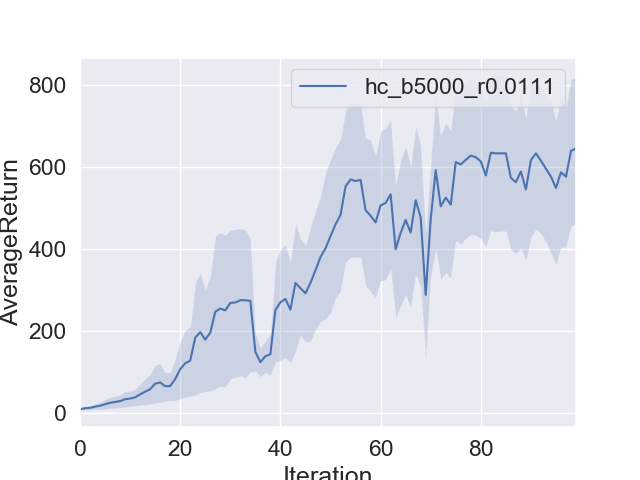
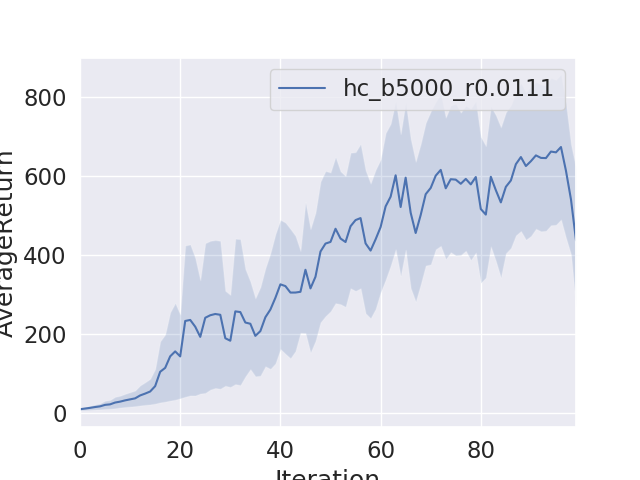
Fixing reward to go calculation

diff --git a/hw2/train_pg_f18.py b/hw2/train_pg_f18.py
@@ -443,7 +443,7 @@ class Agent(object):
         if self.reward_to_go:
             for traj_re in re_n:
                 for t in range(len(traj_re)):
-                    q_n.append(sum([self.gamma**(t_ - t) * r for t_, r in enumerate(traj_re[t:])]))
+                    q_n.append(sum([self.gamma**t_ * r for t_, r in enumerate(traj_re[t:])]))
         else:
             for traj_re in re_n:
                 q_n.extend([sum([self.gamma**t * r for t, r in enumerate(traj_re)])] * len(traj_re))
@@ -484,7 +484,7 @@ class Agent(object):
             b_n = self.sess.run(self.baseline_prediction, feed_dict={self.sy_ob_no: ob_no})
 
             # rescale baseline stats to match adv stats (normalize then scale by adv stats)
-            b_n = (b_n - np.mean(b_n)) / np.std(b_n) * np.std(q_n) + np.mean(q_n)
+            b_n =  self.norm(b_n, np.mean(q_n), np.std(q_n))
 
             # compute advantage
             adv_n = q_n - b_n
@@ -493,6 +493,12 @@ class Agent(object):
 
         assert len(adv_n) == len(q_n)
         return adv_n
+
+    def norm(self, a, m=None, std=None):
+        normed_a = (a - np.mean(a)) / np.std(a)
+        if m and std:
+            normed_a = (a + m) * std
+        return normed_a
 
     def estimate_return(self, ob_no, re_n):
         """
@@ -523,7 +529,7 @@ class Agent(object):
         if self.normalize_advantages:
             # On the next line, implement a trick which is known empirically to reduce variance
             # in policy gradient methods: normalize adv_n to have mean zero and std=1.
-            adv_n = (adv_n - np.mean(adv_n)) / np.std(adv_n)   # YOUR_CODE_HERE
+            adv_n = self.norm(adv_n)   # YOUR_CODE_HERE
         return q_n, adv_n
 
     def update_parameters(self, ob_no, ac_na, q_n, adv_n):
@@ -559,7 +565,7 @@ class Agent(object):
             # Agent.compute_advantage.)
 
             # YOUR_CODE_HERE
-            target_n = (q_n - np.mean(q_n)) / np.std(q_n)
+            target_n =  self.norm(q_n)
             _ = self.sess.run(self.baseline_update_op,
                               feed_dict={self.sy_ob_no: ob_no,
                                          self.sy_target_n: target_n})

diff --git a/hw2/test_train_pg_f18.py b/hw2/test_train_pg_f18.py
@@ -1,0 +1,43 @@
+"""
+Unit tests for train_pg_f18.py
+"""
+
+from sklearn import preprocessing
+import numpy as np
+from train_pg_f18 import Agent
+from mock import patch
+
+class TestPolicyGradients(object):
+    def test_normalize(self):
+        with patch.object(Agent, "__init__", lambda p1, p2, p3, p4: None):
+            agent = Agent(None, None, None)
+            a=np.array([1, -13, 44, 100, 57, -20, 53, 53, 6, 0])
+            np.testing.assert_allclose(agent.norm(a), preprocessing.scale(a))
+
+
+    def test_sum_of_rewards_monte_carlo(self):
+        with patch.object(Agent, "__init__", lambda p1, p2, p3, p4: None):
+            agent = Agent(None, None, None)
+            agent.reward_to_go = False
+            agent.gamma = 0.5
+            rewards = np.array([np.ones(3), np.ones(3)])
+            expected = [1.75] * 6
+
+            actual = agent.sum_of_rewards(rewards)
+
+            assert len(expected) == len(actual)
+            np.testing.assert_allclose(expected, actual)
+
+
+    def test_sum_of_rewards_reward_to_go(self):
+        with patch.object(Agent, "__init__", lambda p1, p2, p3, p4: None):
+            agent = Agent(None, None, None)
+            agent.reward_to_go = True
+            agent.gamma = 0.5
+            rewards = np.array([np.ones(3), np.ones(3)])
+            expected = [1.75, 1.5, 1, 1.75, 1.5, 1]
+
+            actual = agent.sum_of_rewards(rewards)
+
+            assert len(expected) == len(actual)
+            np.testing.assert_allclose(expected, actual)

diff --git a/hw2/README.md b/hw2/README.md
@@ -62,4 +62,6 @@ python3 train_pg_f18.py InvertedPendulum-v2 -n 100 -b 5000 -e 5 -rtg --exp_name 
 
 
 ## Problem 7
-### Summary
+The plot below shows Lunar Lander agent with and without neural network baselines
+
+![](fig/nn_bl_LunarLanderContinuous-v2.png)
